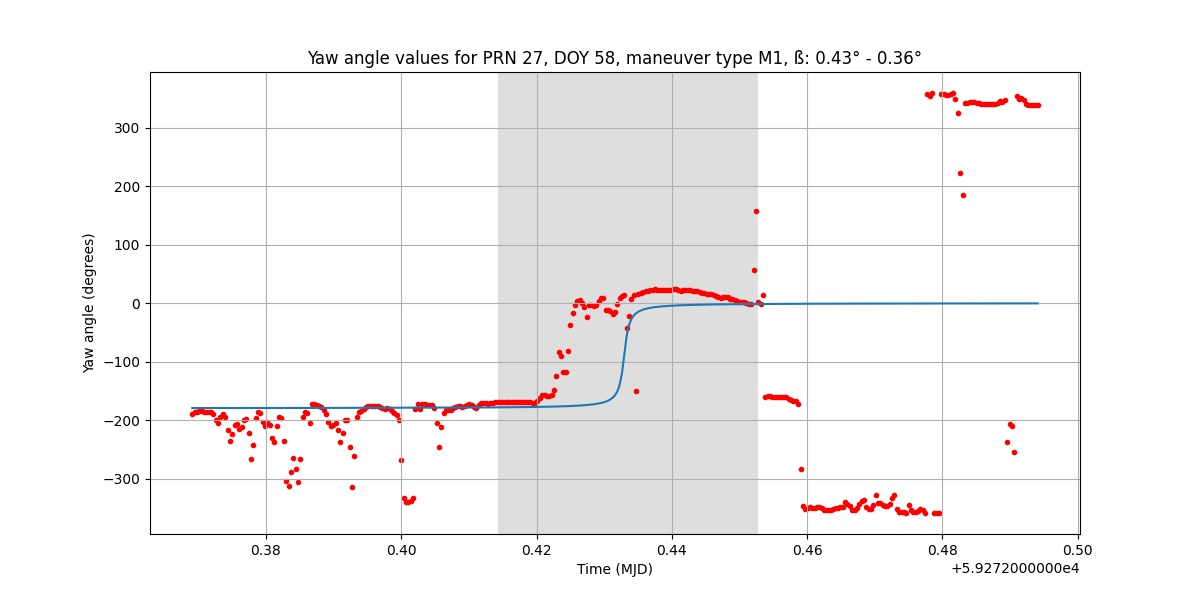
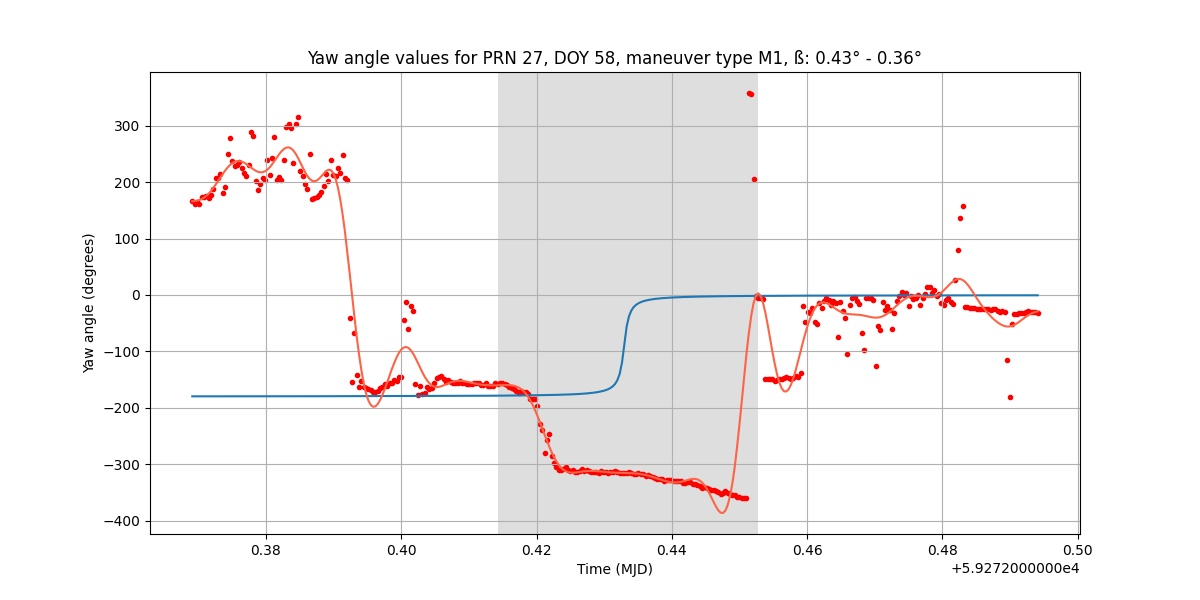
Added comments and tested on different residual files

diff --git a/python/estimation.py b/python/estimation.py
@@ -5,10 +5,6 @@ from scipy.linalg import block_diag
 from scipy.signal import butter, filtfilt
 
 
-
-
-
-
 def filterLowpass(residualSignal, Wn=0.5, N=8):
     """
     This function gets an input signal and filters it using a lowpass Butterworth filter.
@@ -35,6 +31,15 @@ def filterResiduals(residualData):
 
 
 def computeBlock1DesignMatrix(residualData, orbitData, stationsData, epoch):
+    """
+    This function computes the Least squares design matrix for the first  model.
+    This matrix has 2 columns and N_stations rows and is computed for only one epoch.
+    :param residualData: dictionary containing residual signals as read from .res file
+    :param orbitData: dictionary containing data read from .orb file, used to compute azimuth and nadir angles for the design matrix
+    :param stationsData: dictionary containing stations data (index, name and position)
+    :param epoch: single epoch in MJD format
+    :return: A and rk - the LSE design matrix and measurements vector containing residuals read from residualData
+    """
     rk = []
     ak = []
     nk = []
@@ -44,7 +49,6 @@ def computeBlock1DesignMatrix(residualData, orbitData, stationsData, epoch):
 
             r_sat, v_sat = utils.getSatellitePositionVelocity(orbitData, epoch)
             azi, nad = utils.getAzimuthNadirSatellite(r_sat, v_sat, station_index, stationsData)
-            # azi, ele = utils.getAzimuthElevationTopocentric(r_sat, station_index, stationsData)
 
             rk.append(residualData[station_index]['rk'][epoch_index])
             ak.append(azi)
@@ -57,6 +61,13 @@ def computeBlock1DesignMatrix(residualData, orbitData, stationsData, epoch):
 
 
 def computeBlock2DesignMatrix(yaw): # TODO comment code for God's sake
+    """
+    This function computes the restrictions block which is concatenated underneath block 1.
+    The block needs a initial estimated yaw value.
+    :param yaw: initial yaw value used for restriction
+    :return: block 2 for a certain epoch (contains only 2 elements) and measurement to be concatenated
+    at the end of the residual vector: A2 and r2
+    """
     A2 = np.array([[2 * constants.PCO_x * np.cos(np.deg2rad(yaw)),
                     2 * constants.PCO_x * np.sin(np.deg2rad(yaw))]])
     r2 = np.array([2 * (constants.PCO_x ** 2)])
@@ -64,6 +75,13 @@ def computeBlock2DesignMatrix(yaw): # TODO comment code for God's sake
 
 
 def solveLSE(A, rk):
+    """
+    This function gets a design matrix and a residual vector (for one epoch) and solves the LSE estimation.
+    This is used for model 1, as the other models require the design matrix to be modified.
+    :param A: design matrix for LSE system
+    :param rk: measurements vector (residual)
+    :return: yaw estimated from LSE solution
+    """
     AtA = A.transpose().dot(A)
     x = np.linalg.inv(AtA).dot(A.transpose()).dot(rk)
     yaw = np.rad2deg(np.arctan2(x[1], x[0]))
@@ -71,6 +89,13 @@ def solveLSE(A, rk):
 
 
 def solveLSE2(A, rk):
+    """
+    This function gets a design matrix and a residual vector (for one epoch) and solves the LSE estimation.
+    This is used for model 2, as the other models require the design matrix to be modified.
+    :param A: design matrix for LSE system
+    :param rk: measurements vector (residual)
+    :return: yaw estimated from LSE solution
+    """
     y1 = solveLSE(A, rk)
     A2 = np.append(A, [[2 * constants.PCO_x * np.cos(np.deg2rad(y1)),
                         2 * constants.PCO_x * np.sin(np.deg2rad(y1))]], axis=0)
@@ -83,6 +108,13 @@ def solveLSE2(A, rk):
 
 
 def solveLSE3(A, rk):
+    """
+    This function gets a design matrix and a residual vector (for one epoch) and solves the LSE estimation.
+    This is used for model 3, as the other models require the design matrix to be modified.
+    :param A: design matrix for LSE system
+    :param rk: measurements vector (residual)
+    :return: yaw estimated from LSE solution
+    """
     y1 = solveLSE(A, rk)
     A2 = np.append(A, [[2 * constants.PCO_x * np.cos(np.deg2rad(y1)),
                         2 * constants.PCO_x * np.sin(np.deg2rad(y1))]], axis=0)
@@ -180,13 +212,24 @@ def solveLSEModel3(residualData, orbitData, stationsData):
             epochs_final.append(epoch)
         except np.linalg.LinAlgError:
             print("Singular matrix at epoch {}.".format(epoch))
-
-
-
     return (epochs_final, yaw)
 
 
 def computeBlock1DesignMatrixWindow(residualData, orbitData, stationsData, startEpoch, endEpoch):
+    """
+    This function computes the first block of the grand design matrix used in model 4. This model estimates yaw angles
+    over multiple epochs and uses multiple stations - therefore the first block which is computed here
+    will have smaller blocks on the main diagonal (identical to those used for the first model).
+    The final block 1 returned from this funciton will have 2*N_epochs columns and N_epochs*N_stations rows.
+    :param residualData: dictionary containing data read from .res file
+    :param orbitData: dictionary containing data read from .orb file, used to compute azimuth and nadir angles for the design matrix
+    :param stationsData: dictionary containing stations data (index, name and position)
+    :param startEpoch: float variable containing the first epoch, in MJD format, for the interval over which the
+    block matrix is computed
+    :param endEpoch: float variable containing the last epoch, in MJD format, for the interval over which the
+    block matrix is computed
+    :return: Block 1 matrix and residual data
+    """
     trimmedResData = utils.trimResDataWindow(residualData, startEpoch, endEpoch)
     epochs = utils.getEpochsArray(trimmedResData)
 
@@ -203,6 +246,11 @@ def computeBlock1DesignMatrixWindow(residualData, orbitData, stationsData, start
 
 
 def computeBlock2DesignMatrixWindow(residualData, orbitData, stationsData, startEpoch, endEpoch, yaw):
+    """
+    This function computes the restriction matrices for multiple epochs (contained in the interval between
+    startEpoch and endEpoch) and concatenates them in a block-diagonal matrix. The final block has N_epochs
+    rows and 2*N_epochs columns.
+    """
     trimmedResData = utils.trimResDataWindow(residualData, startEpoch, endEpoch)
     epochs = utils.getEpochsArray(trimmedResData)
 
@@ -224,6 +272,10 @@ def computeBlock2DesignMatrixWindow(residualData, orbitData, stationsData, start
 
 
 def computeBlock3DesignMatrixWindow(residualData, startEpoch, endEpoch):
+    """
+    This function computes the 3rd block for the fourth model LSE estimator. This block has the values
+    (coefficients) multiplied with satellite clock errors and stations biases.
+    """
     trimmedResData = utils.trimResDataWindow(residualData, startEpoch, endEpoch)
     epochs = utils.getEpochsArray(trimmedResData)
     nr_st = len(trimmedResData.keys())
@@ -241,6 +293,10 @@ def computeBlock3DesignMatrixWindow(residualData, startEpoch, endEpoch):
 
 
 def computeBlock4DesignMatrixWindow(residualData, startEpoch, endEpoch):
+    """
+    Computes the final block to be concatenated to the grand design matrix for the fourth LSE model.
+    This block contains only zero values over a dimension of N_epochs*(N_epochs*N_stations).
+    """
     trimmedResData = utils.trimResDataWindow(residualData, startEpoch, endEpoch)
     epochs = utils.getEpochsArray(trimmedResData)
     nr_st = len(trimmedResData.keys())
@@ -250,6 +306,11 @@ def computeBlock4DesignMatrixWindow(residualData, startEpoch, endEpoch):
 
 
 def computeGrandDesignMatrix(residualData, orbitData, stationsData, startEpoch, endEpoch, yaw_init):
+    """
+    Computes the grand design matrix using the four smaller blocks from the previous functions.
+    This matrix corresponds to the fourth estimation model, which takes into account integer ambiguities,
+    satellite clock corrections and multiple epochs.
+    """
     A1, rk = computeBlock1DesignMatrixWindow(residualData, orbitData, stationsData, startEpoch, endEpoch)
     A2, rk2 = computeBlock2DesignMatrixWindow(residualData, orbitData, stationsData, startEpoch, endEpoch, yaw_init)
     A3 = computeBlock3DesignMatrixWindow(residualData, startEpoch, endEpoch)
@@ -264,6 +325,10 @@ def computeGrandDesignMatrix(residualData, orbitData, stationsData, startEpoch, 
 
 
 def solveLSE4(residualData, orbitData, stationsData, startEpoch, endEpoch, yaw_init):
+    """
+    This function solves the fourth model and outputs an array of yaw values alongside their corresponding epochs.
+    All yaw values correspond to the interval between startEpoch and endEpoch.
+    """
     A, rk = computeGrandDesignMatrix(residualData, orbitData, stationsData, startEpoch, endEpoch, yaw_init)
 
     trimmedResData = utils.trimResDataWindow(residualData, startEpoch, endEpoch)
@@ -283,6 +348,11 @@ def solveLSE4(residualData, orbitData, stationsData, startEpoch, endEpoch, yaw_i
 
 
 def final4(residualData, orbitData, stationsData, Ne=5):
+    """
+    This function iterates through groups of epochs (grouped in bins with Ne epochs each).
+    For each bin the fourth model estimation is applied. This can also be applied for all available epochs
+    at once yielding more precise results than applying it for smaller time intervals.
+    """
     # epochs = utils.getEpochsArray(residualData)
     epochs, yaw_init = solveLSEModel3(residualData, orbitData, stationsData)
     yaw_init = filterLowpass(yaw_init, Wn=0.1, N=4)
@@ -303,123 +373,4 @@ def final4(residualData, orbitData, stationsData, Ne=5):
     return epoch_final, yaw
 
 
-def computeGrandDesignMatrixWindow(residualData, orbitData, stationsData, startEpoch, endEpoch):
-    """
-    This function computes the grand design matrix for N_stations stations and N_epochs epochs.
-    :param residualData: dictionary containing residual data read from .res file
-    :param orbitData: dictionary containing orbit data read from .orb file
-    :param stationsData: dictionary containing stations data (index, name and position)
-    :param startEpoch: epoch at which estimation starts
-    :param endEpoch: epoch at which estimation ends
-    :return: grand design matrix and data vector with added constraints (fake observations)
-    """
 
-    # Get residual data contained between startEpoch and endEpoch into a dictionary format
-    trimmedResData = utils.trimResDataWindow(residualData, startEpoch, endEpoch)
-    # Get initial epochs and yaw values between startEpoch and endEpoch by using the trimmed residual data
-    (epochs_init, yaw_init) = solveLSEModel1(trimmedResData, orbitData, stationsData)
-    #yaw_init = filterLowpass(yaw_init, Wn=0.1, N=4)
-
-    # Initialize residual vector which will also contain pseudo observations for restraints
-    Rk = np.empty((0, 0), float)
-
-    # Initialize blocks that will make up the grand design matrix
-    grandDesignMatrixBlock1 = np.empty((0, 0), float)
-    grandDesignMatrixBlock2 = np.empty((0, 0), float)
-    grandDesignMatrixBlock3 = np.empty((0, 0), float)
-
-
-    # For each epoch between startEpoch and EndEpoch get azimuth and nadir. Compute and concatenate buildings blocks.
-    for epoch in epochs_init:
-        rk = []
-        ak = []
-        nk = []
-        for station_index in trimmedResData.keys():
-            # For each epoch construct a list of residual, azimuth and nadir values and concatenate them into arrays
-            epoch_index = residualData[station_index]['mjd'].index(epoch)
-
-            r_sat, v_sat = utils.getSatellitePositionVelocity(orbitData, epoch)
-            azi, nad = utils.getAzimuthNadirSatellite(r_sat, v_sat, station_index, stationsData)
-
-            rk.append(residualData[station_index]['rk'][epoch_index])
-            ak.append(azi)
-            nk.append(nad)
-
-        # For each epoch construct a small block with N_stations rows and 2 columns
-        A = np.zeros((len(rk), 2))
-        for i in range(0, len(rk)):
-            A[i][0] = np.sin(np.deg2rad(nk[i])) * np.sin(np.deg2rad(ak[i]))
-            A[i][1] = np.sin(np.deg2rad(nk[i])) * np.cos(np.deg2rad(ak[i]))
-
-        # After all small blocks are populated with values put them into a diagonal matrix - the first block
-        grandDesignMatrixBlock1 = block_diag(grandDesignMatrixBlock1, A)
-
-        # For each epoch construct the constraints block and concatenate them diagonally
-        b1 = 2*constants.PCO_x*np.cos(yaw_init[epochs_init.index(epoch)])
-        b2 = 2*constants.PCO_x*np.sin(yaw_init[epochs_init.index(epoch)])
-        B = np.array([b1, b2])
-        grandDesignMatrixBlock2 = block_diag(grandDesignMatrixBlock2, B)
-
-        # Create the right side block with ones on columns corresponding to epoch + eye matrix on the right
-        C = np.zeros((len(rk), len(epochs_init)))
-        C[:, epochs_init.index(epoch)] = 1
-        C = np.concatenate((C, np.eye(len(rk))), axis=1)
-        try:
-            grandDesignMatrixBlock3 = np.concatenate((grandDesignMatrixBlock3, C), axis=0)
-            Rk = np.concatenate((Rk, np.array(rk)), axis=0)
-        except:
-            grandDesignMatrixBlock3 = C
-            Rk = np.array(rk)
-
-    # Add constraints to residual data vector
-    Rk = np.concatenate((Rk, 2*(constants.PCO_x**2)*np.ones(len(epochs_init))), axis=0)
-    grandDesignMatrix = np.concatenate((grandDesignMatrixBlock1, grandDesignMatrixBlock2), axis=0)
-    grandDesignMatrixBlock3 = np.concatenate((grandDesignMatrixBlock3, np.zeros((len(epochs_init), len(epochs_init)+len(rk)))), axis=0)
-    grandDesignMatrix = np.concatenate((grandDesignMatrix, grandDesignMatrixBlock3), axis=1)
-
-
-    return (grandDesignMatrix, Rk, epochs_init)
-
-
-
-def solveLSEModel4(A, rk, epochs):
-    # trimmedResData = utils.trimResDataWindow(residualData, startEpoch, endEpoch)
-    # (epochs, _) = solveLSEModel1WithRestraint(trimmedResData, orbitData, stationsData)
-    # TODO see why on Earth the fourth estimator is not convergent ?!!! For the third the problem was on LSE solving - implementing a separate function fixed it
-    AtA = A.transpose().dot(A)
-    X = np.linalg.inv(AtA).dot(A.transpose()).dot(rk)
-    yaw = []
-
-    for epoch in epochs:
-        i = epochs.index(epoch)
-        x = X[2*i: (2*i)+2]
-        y = np.rad2deg(np.arctan2(x[1], x[0]))
-        yaw.append(y)
-
-    #print("Epochs: {}".format(epochs))
-    #print("Yaw: {}\n".format(yaw))
-
-    return epochs, yaw
-
-
-
-def solveLSEModel4Window(residualData, orbitData, stationsData, Ne=1):
-    epochs = utils.getEpochsArray(residualData)
-
-    epochs_final = []
-    yaw = []
-    for epoch in epochs[0: - Ne - 1]:
-        i_start = epochs.index(epoch)
-        startEpoch = epoch
-
-        endEpoch = epochs[i_start + Ne]
-        (A, rk, e) = computeGrandDesignMatrixWindow(residualData, orbitData, stationsData,
-                                                             startEpoch, endEpoch)
-        try:
-            _, y = solveLSEModel4(A, rk, e)
-
-            epochs_final.append(e)
-            yaw.append(y)
-        except np.linalg.LinAlgError:
-            print("Singular matrix at epoch {}.".format(epoch))
-    return (epochs_final, yaw)

diff --git a/python/main.py b/python/main.py
@@ -7,8 +7,8 @@ if __name__ == '__main__':
 
     year = 21
     prn = 27
-    doy = 59
-    man = "N1"
+    doy = 58
+    man = "M1"
     man_simulated = "{}_sim".format(man) # simulated .res files contain maneuvers with an S at the end to differentiate from real residuals
 
     # Get stations data, orbit data, stations list and residuals for considered maneuver, doy, and prn
